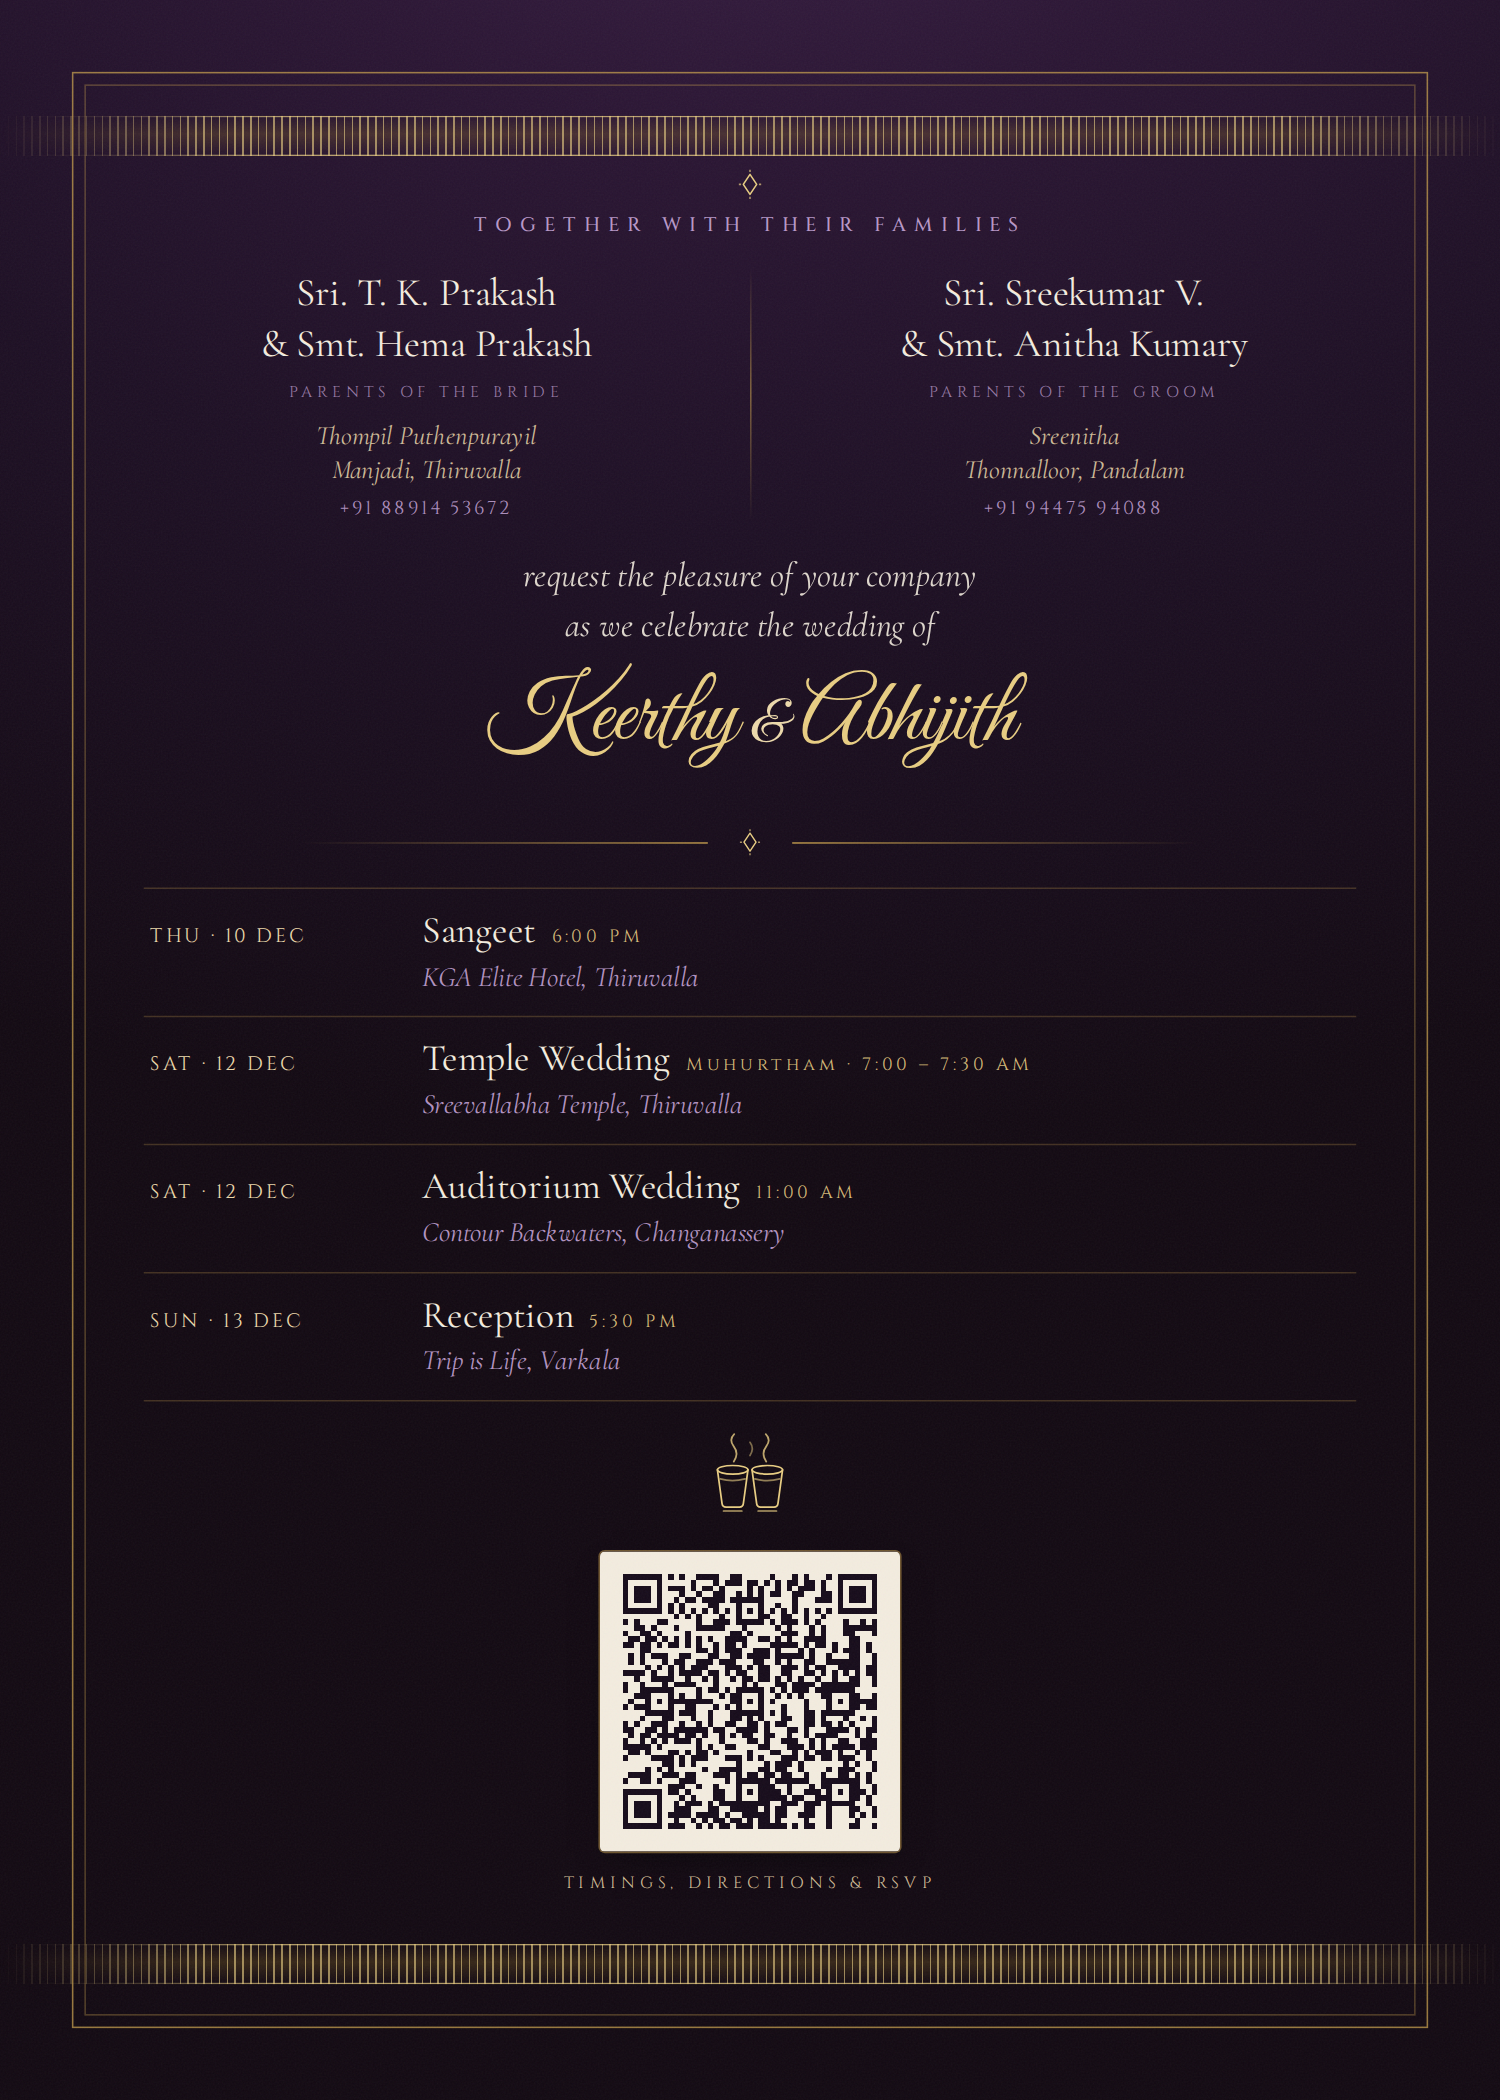
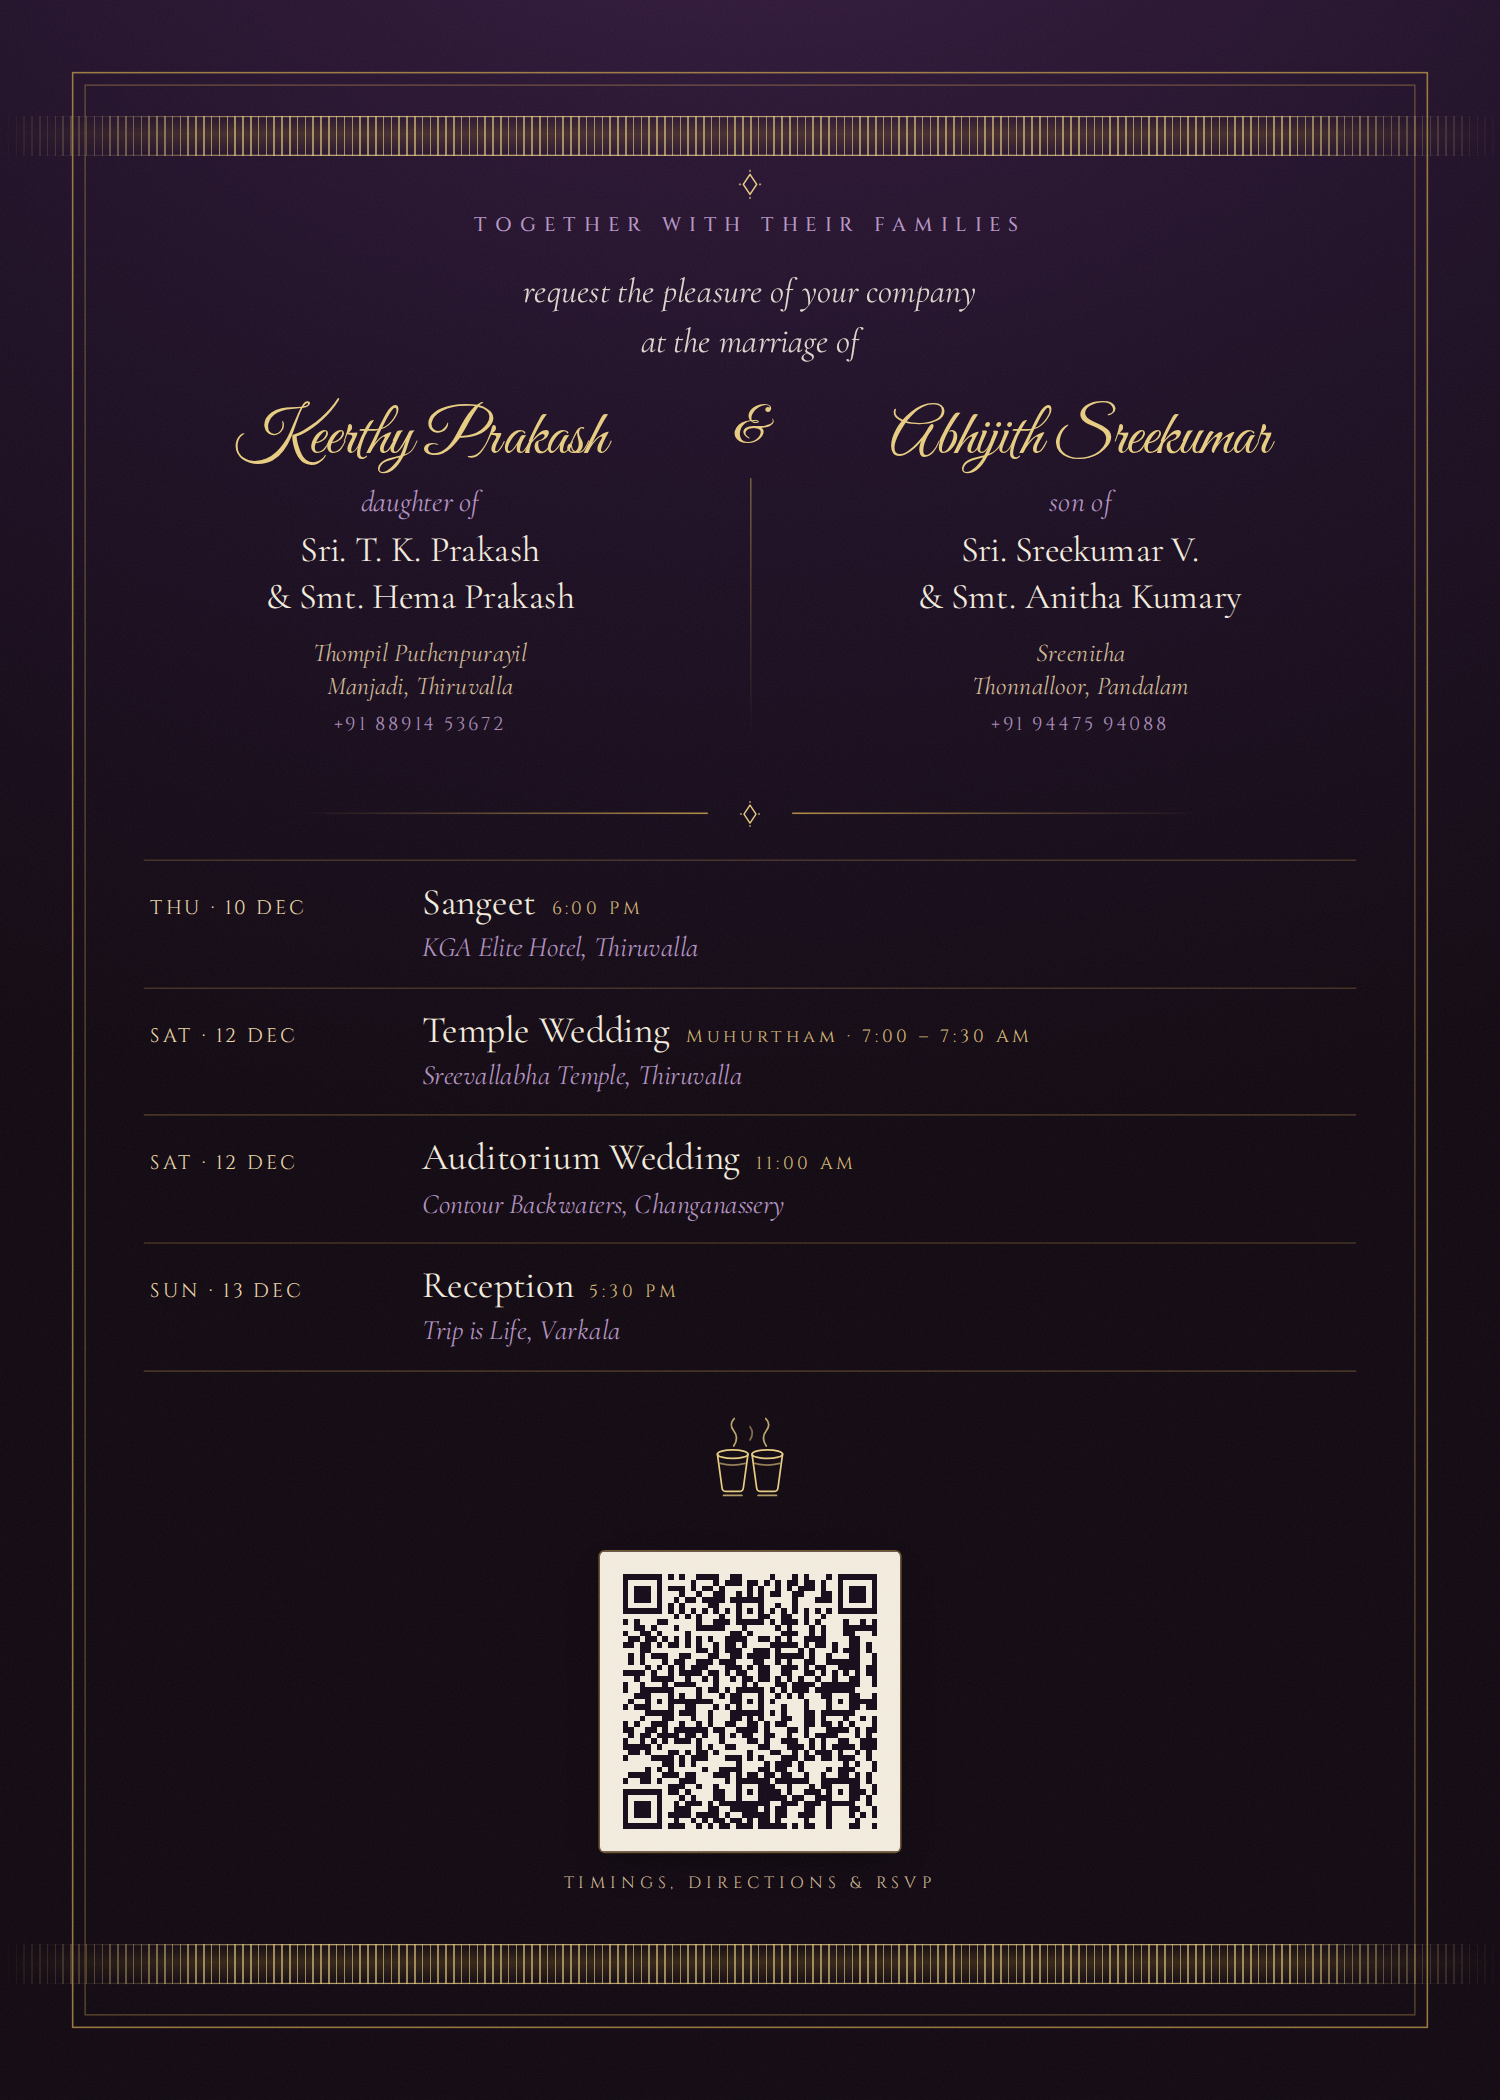
Set the families traditionally, with full names
"Parents of the bride" / "parents of the groom" become "daughter of" / "son
of", which meant restructuring rather than relabelling: each column now leads
with the full name — Keerthy Prakash, Abhijith Sreekumar — then the relation,
then the parents, house and number. The ampersand moved into the middle column
at the height of the two names, with the rule dropping away below it.

The invitation line moves above the columns and reads "at the marriage of", so
it introduces them. That makes the separate script "Keerthy & Abhijith" line
redundant, and it is gone — the front already carries the couple in script,
and the back is the side that states who is marrying whom.

Both orderings still swap on body.groom, so the groom's side leads with
"Abhijith Sreekumar / son of".

Claude-Session: https://claude.ai/code/session_01U3eNzvzbkYwe2F9QhNWExs

diff --git a/invitation/card-back.css b/invitation/card-back.css
@@ -21,39 +21,68 @@
   margin-top: 8px;
 }
 
+/* Traditional two-family setting: each side leads with the full name, then
+   "daughter of" / "son of", then the parents, house and number. The ampersand
+   sits in the middle column at the height of the two names, with the rule
+   dropping away below it. */
 .families {
   display: grid;
-  grid-template-columns: 1fr 1px 1fr;
-  gap: 0 26px;
+  grid-template-columns: 1fr auto 1fr;
+  gap: 0 24px;
   align-items: start;
-  margin-top: 18px;
+  margin-top: 20px;
   width: 100%;
 }
 
 .families .divider {
   align-self: stretch;
-  background: linear-gradient(180deg, transparent, rgba(203, 162, 77, 0.55), transparent);
+  display: flex;
+  flex-direction: column;
+  align-items: center;
+  gap: 12px;
+}
+
+.families .divider .amp-mark {
+  font-family: var(--font-script);
+  font-size: 34px;
+  line-height: 1.15;
+  color: var(--gold-bright);
+}
+
+.families .divider .line {
+  flex: 1;
+  width: 1px;
+  background: linear-gradient(180deg, rgba(203, 162, 77, 0.5), transparent);
+}
+
+.families .full {
+  font-family: var(--font-script);
+  font-size: 40px;
+  /* the script overshoots its box, same as the names on the front */
+  line-height: 1.3;
+  padding: 0 0.12em;
+  color: var(--gold-bright);
+  white-space: nowrap;
+}
+
+.families .rel {
+  font-style: italic;
+  font-size: 19px;
+  color: rgba(198, 165, 216, 0.9);
+  margin-top: 2px;
 }
 
 .families .who {
-  font-size: 25px;
+  font-size: 23px;
   line-height: 1.3;
   color: var(--ivory);
-}
-
-.families .role {
-  font-family: var(--font-label);
-  text-transform: uppercase;
-  font-size: 10px;
-  letter-spacing: 0.3em;
-  color: rgba(198, 165, 216, 0.72);
-  margin-top: 8px;
+  margin-top: 6px;
 }
 
 /* house name and number under each family, so the card carries both */
 .families .house {
   font-style: italic;
-  font-size: 17px;
+  font-size: 16.5px;
   line-height: 1.3;
   color: rgba(236, 217, 171, 0.86);
   margin-top: 10px;
@@ -70,20 +99,10 @@
 .invite {
   font-size: 22px;
   line-height: 1.45;
-  margin-top: 20px;
+  margin-top: 18px;
   max-width: 560px;
 }
 
-.names-sm {
-  font-family: var(--font-script);
-  font-size: 56px;
-  /* same paint-box rule as .names in shared.css — the script overshoots */
-  line-height: 1.4;
-  margin-top: 4px;
-  color: var(--gold-bright);
-}
-.names-sm { gap: 0.16em; }
-.names-sm .amp { font-size: 0.66em; }
 
 /* --- events -------------------------------------------------------------- */
 

diff --git a/invitation/card-back-all.html b/invitation/card-back-all.html
@@ -17,29 +17,32 @@
       <span class="motif" data-motif="diamond" data-w="20"></span>
       <p class="label eyebrow">Together with their families</p>
 
-      <!-- ============ EDIT ME: parents' names ============ -->
+      <p class="invite serif-italic">
+        request the pleasure of your company<br>at the marriage of
+      </p>
+
+      <!-- ============ EDIT ME: names, parents, addresses ============ -->
       <div class="families">
         <div class="side-bride">
+          <p class="full">Keerthy Prakash</p>
+          <p class="rel">daughter of</p>
           <p class="who">Sri. T. K. Prakash<br>&amp; Smt. Hema Prakash</p>
-          <p class="role">Parents of the bride</p>
           <p class="house">Thompil Puthenpurayil<br>Manjadi, Thiruvalla</p>
           <p class="tel">+91 88914 53672</p>
         </div>
-        <span class="divider"></span>
+        <div class="divider">
+          <span class="amp-mark">&amp;</span>
+          <span class="line"></span>
+        </div>
         <div class="side-groom">
+          <p class="full">Abhijith Sreekumar</p>
+          <p class="rel">son of</p>
           <p class="who">Sri. Sreekumar V.<br>&amp; Smt. Anitha Kumary</p>
-          <p class="role">Parents of the groom</p>
           <p class="house">Sreenitha<br>Thonnalloor, Pandalam</p>
           <p class="tel">+91 94475 94088</p>
         </div>
       </div>
-      <!-- ================================================= -->
-
-      <p class="invite serif-italic">
-        request the pleasure of your company<br>as we celebrate the wedding of
-      </p>
-
-      <p class="names-sm pair"><span class="bride">Keerthy</span><span class="amp">&amp;</span><span class="groom">Abhijith</span></p>
+      <!-- ========================================================== -->
 
       <div class="rule section-rule">
         <span class="line"></span>

diff --git a/invitation/card-back-public.html b/invitation/card-back-public.html
@@ -17,29 +17,32 @@
       <span class="motif" data-motif="diamond" data-w="20"></span>
       <p class="label eyebrow">Together with their families</p>
 
-      <!-- ============ EDIT ME: parents' names ============ -->
+      <p class="invite serif-italic">
+        request the pleasure of your company<br>at the marriage of
+      </p>
+
+      <!-- ============ EDIT ME: names, parents, addresses ============ -->
       <div class="families">
         <div class="side-bride">
+          <p class="full">Keerthy Prakash</p>
+          <p class="rel">daughter of</p>
           <p class="who">Sri. T. K. Prakash<br>&amp; Smt. Hema Prakash</p>
-          <p class="role">Parents of the bride</p>
           <p class="house">Thompil Puthenpurayil<br>Manjadi, Thiruvalla</p>
           <p class="tel">+91 88914 53672</p>
         </div>
-        <span class="divider"></span>
+        <div class="divider">
+          <span class="amp-mark">&amp;</span>
+          <span class="line"></span>
+        </div>
         <div class="side-groom">
+          <p class="full">Abhijith Sreekumar</p>
+          <p class="rel">son of</p>
           <p class="who">Sri. Sreekumar V.<br>&amp; Smt. Anitha Kumary</p>
-          <p class="role">Parents of the groom</p>
           <p class="house">Sreenitha<br>Thonnalloor, Pandalam</p>
           <p class="tel">+91 94475 94088</p>
         </div>
       </div>
-      <!-- ================================================= -->
-
-      <p class="invite serif-italic">
-        request the pleasure of your company<br>as we celebrate the wedding of
-      </p>
-
-      <p class="names-sm pair"><span class="bride">Keerthy</span><span class="amp">&amp;</span><span class="groom">Abhijith</span></p>
+      <!-- ========================================================== -->
 
       <div class="rule section-rule">
         <span class="line"></span>

diff --git a/invitation/README.md b/invitation/README.md
@@ -149,10 +149,13 @@ site adds it anyway) and why the public card uses the bare URL.
 The text is plain HTML; open the file and type. Blocks likely to change are
 marked `<!-- EDIT ME -->`. Colours live in one place: `:root` in `shared.css`.
 
-**Families**, as given:
+**Families**, as given. The card backs set these traditionally: each side leads
+with the full name, then "daughter of" / "son of", then the parents, house and
+number, with the ampersand between the two names.
 
 | | Bride's side | Groom's side |
 | --- | --- | --- |
+| Name | Keerthy Prakash | Abhijith Sreekumar |
 | Parents | Sri. T. K. Prakash & Smt. Hema Prakash | Sri. Sreekumar V. & Smt. Anitha Kumary |
 | House | Thompil Puthenpurayil, Manjadi, Thiruvalla | Sreenitha, Thonnalloor, Pandalam |
 | Phone | +91 88914 53672 | +91 94475 94088 |
